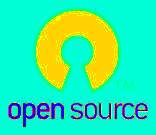
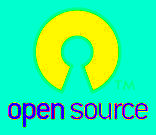
update ejercicio4 practica2

diff --git a/Practica2/Python/ejercicio4.py b/Practica2/Python/ejercicio4.py
@@ -11,59 +11,105 @@ import numpy as np
 import matplotlib.pyplot as plt
 import cv2
 #*************************************************************************
- 
+
+
+# NOTE(elsuizo:2019-07-16): notar que esta es una malisima implementacion!!!
 def falso_color(img):
-    """docstring for falso_color"""
-    
+    """Dada una imagen, se la transforma a falso color"""
     rows,cols = img.shape
     img_red = np.copy(img)
     img_green = np.copy(img)
     img_blue = np.copy(img)
     img_false = np.zeros((rows, cols, 3), dtype=np.uint8)
-    
-    for i in xrange(0,rows):
-        for j in xrange(0,cols):
-        
-            if (0<=img[i,j]<=43):
-                img_red[i,j] = 255
-                img_green[i,j] = img[i,j]*(255/43)
+
+    for i in range(0,rows):
+        for j in range(0,cols):
+
+            if (0 <= img[i, j] <= 43):
+                img_red[i, j] = 255
+                img_green[i, j] = img[i, j] * (255 / 43)
+                img_blue[i, j] = 0
+
+            elif(43 < img[i, j] <= 86):
+                img_red[i, j] = (255 - (img[i, j] - 43) * (255 / 43))
+                img_green[i, j] = 255
                 img_blue[i,j] = 0
-            
-            elif(43<img[i,j]<=86):
-                img_red[i,j] = (255-(img[i,j]-43)*(255/43))
-                img_green[i,j]=255
-                img_blue[i,j]=0
-        
-            elif(86<img[i,j]<=128):
-                img_red[i,j] = 0
-                img_green[i,j] = 255
-                img_blue[i,j] = ((img[i,j]-86)*(255/42))
-        
-            elif(128<img[i,j]<=171):
-                img_red[i,j] = 0
-                img_green[i,j] = ((171-img[i,j])*(255/43))
-                img_blue[i,j] = 255
-        
-            elif(171<img[i,j]<=214):
-                img_red[i,j] = (img[i,j]-171)*(255/43)
-                img_green[i,j] = 0
-                img_blue[i,j] = 255
-        
-            elif(214<img[i,j]):
-                img_red[i,j] = 255
-                img_green[i,j] = 0
-                img_blue[i,j] = ((255-img[i,j])*(255/41))
-    
-    img_false[:,:,0]=img_red
-    img_false[:,:,1]=img_green
-    img_false[:,:,2]=img_blue
+
+            elif(86 < img[i, j] <= 128):
+                img_red[i, j] = 0
+                img_green[i, j] = 255
+                img_blue[i, j] = ((img[i, j] - 86) * (255 / 42))
+
+            elif(128<img[i, j]<=171):
+                img_red[i, j] = 0
+                img_green[i, j] = ((171 - img[i, j]) * (255 / 43))
+                img_blue[i, j] = 255
+
+            elif(171 < img[i, j] <= 214):
+                img_red[i, j] = (img[i, j] - 171) * (255 / 43)
+                img_green[i, j] = 0
+                img_blue[i, j] = 255
+
+            elif(214 < img[i, j]):
+                img_red[i, j] = 255
+                img_green[i, j] = 0
+                img_blue[i, j] = ((255 - img[i, j]) * (255 / 41))
+
+    img_false[:, :, 0] = img_red
+    img_false[:, :, 1] = img_green
+    img_false[:, :, 2] = img_blue
 
     return img_false
 
-path2 = 'Imagenes/opensource-softwares2.jpg'
+# NOTE(elsuizo:2019-07-16): esta es la manera que se debe calcular el falso color mediante una lookup-table
+def false_color_fast(img):
+    """
+    Function for calculate a false color of a image
+
+    Input:
+    -----
+    img: grayscale image
+
+    output:
+    ------
+    img_fc: 3-channel false color image
+
+    """
+    # red LUT
+    red = np.zeros(256, dtype="uint8")
+    red[0:43] =  255
+    red[43:86] = np.arange(43, 0, -1) * (255.0 / 43.0)
+    red[172:215] = np.arange(0, 43) * (255.0 / 43.0)
+    red[214:] = 255
+    # green LUT
+    green = np.zeros(256, dtype="uint8")
+    green[0:43] = np.arange(43) * (255.0 / 43.0)
+    green[43:129] = 255
+    green[129:172] = np.arange(43, 0, -1) * (255.0 / 43.0)
+    # blue LUT
+    blue = np.zeros(256, dtype="uint8")
+    blue[86:129] = np.arange(43) * (255.0 / 43.0)
+    blue[129:213] = 255
+    blue[213:] = np.arange(43, 0, -1) * (255 / 43.0)
+
+    m,n = img.shape
+    img_fc = np.zeros((m, n, 3))
+
+    img_fc_r = cv2.LUT(img, red)
+    img_fc_g = cv2.LUT(img, green)
+    img_fc_b = cv2.LUT(img, blue)
+    img_fc = cv2.merge((img_fc_r, img_fc_g, img_fc_b))
+
+    return img_fc
+
+
+path2 = '../Imagenes/opensource-softwares2.jpg'
 
 image = cv2.imread(path2, 0)
 
+#-------------------------------------------------------------------------
+#                        plots
+#-------------------------------------------------------------------------
 falso = falso_color(image)
 cv2.imwrite( 'opensource.png', falso)
 #plt.savefig(falso, 'lyapunov_loco.png')
@@ -73,4 +119,14 @@ plt.title('Imagen original')
 plt.figure()
 plt.imshow(falso)
 plt.title('Falso color de la imagen')
+
+false = false_color_fast(image)
+cv2.imwrite( 'opensource_fast.png', false)
+#plt.savefig(falso, 'lyapunov_loco.png')
+plt.figure()
+plt.imshow(image, cmap='gray')
+plt.title('Imagen original')
+plt.figure()
+plt.imshow(false)
+plt.title('Falso color de la imagen con la funcion false_color_fast')
 plt.show()
